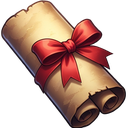
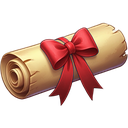
fix(circle-heroes): 고급소환권 아이콘을 일반과 동일 두루마리+리본색만 빨강으로, 초월 별을 빨강으로
- 고급소환권: 별도 두루마리 아트 대신 일반소환권 원본 이미지를 그대로 쓰고
  파란 리본만 빨간색으로 색상 치환(HSV 색상 회전, 하이라이트/음영 유지)
- 초월(보라) 별: 어두운 초상화 위에서 잘 안 보인다는 피드백에 따라 밝은
  빨강 그라데이션 + 검은 외곽 글로우로 교체(클래스명 star-purple은 "초월
  별" 의미로 유지, 리네임은 범위 밖)

diff --git a/circle-heroes/play/assets/index-B40_DLEJ.css b/circle-heroes/play/assets/index-B40_DLEJ.css
@@ -1,0 +1,1 @@
+:root{--bg: #f5ead6;--panel: #ecdab3;--panel2: #e2c48f;--line: #c7a468;--ink: #3b2a16;--ink2: #6e5430;--ink3: #9c8258;--amber: #f5ac3d;--amber-dark: #d88a1f;--red: #e8384a}#ui{position:fixed;top:0;right:0;bottom:0;left:0;display:flex;flex-direction:column;pointer-events:none;font-family:-apple-system,BlinkMacSystemFont,Apple SD Gothic Neo,Malgun Gothic,Noto Sans KR,sans-serif;color:var(--ink2);user-select:none;-webkit-user-select:none}#ui *{box-sizing:border-box}#ui button{font-family:inherit}#topbar-bg{position:absolute;inset:0 0 auto 0;height:calc(max(10px,env(safe-area-inset-top)) + 52px);background:var(--bg);z-index:4}#ui.on-battle #topbar-bg{background:none}#topbar{position:relative;z-index:5;display:flex;justify-content:space-between;align-items:flex-start;gap:8px;padding:max(10px,env(safe-area-inset-top)) 8px 6px}#hud{display:flex;flex-wrap:wrap;gap:2px;min-width:0;pointer-events:auto}.hud-chip{display:flex;align-items:center;gap:2px;background:#ecdab3cc;border:1px solid var(--line);border-radius:999px;padding:1px 6px 1px 3px;font-size:10px;color:#4a3418;font-variant-numeric:tabular-nums;white-space:nowrap}.hud-icon{width:12px;height:12px;object-fit:contain;flex:none}.hud-power{color:#a8650f}#corner{display:flex;flex-direction:row;flex:none;gap:8px;align-items:flex-start;pointer-events:auto}.corner-btn{width:44px;height:44px;border-radius:12px;background:#ecdab3dd;border:1px solid var(--line);display:flex;flex-direction:column;align-items:center;justify-content:center;gap:1px;font-size:9px;color:var(--ink2);position:relative;cursor:pointer}.corner-btn .ci{width:22px;height:22px;object-fit:contain}.corner-btn .ce{font-size:19px;line-height:1}.corner-btn .badge{position:absolute;top:-3px;right:-3px;width:10px;height:10px;border-radius:50%;background:var(--red);border:2px solid var(--bg)}.corner-btn.fold{width:26px;height:44px;font-size:12px;color:var(--ink3)}#corner.folded .corner-btn:not(.fold){display:none}.summon-single-btn{position:relative;display:flex;align-items:center;justify-content:center;gap:5px}.summon-free-dot{width:8px;height:8px;border-radius:50%;background:var(--red);flex:none}.tab{position:relative}.tab .badge{position:absolute;top:2px;right:18px;width:8px;height:8px;border-radius:50%;background:var(--red);border:2px solid var(--panel)}#screens{flex:1;position:relative;overflow:hidden}.screen{position:absolute;top:0;right:0;bottom:0;left:0;background:var(--bg);overflow-y:auto;padding:8px 14px 10px;pointer-events:auto;display:none}.screen.on{display:block}.screen h2{font-size:17px;color:var(--ink);margin:6px 0 3px}.screen .desc{font-size:12.5px;color:var(--ink3);margin:0 0 8px}#screen-battle{background:none;pointer-events:none}#subbar{display:flex;gap:6px;padding:8px 10px;background:#ecdab3f2;border-top:1px solid var(--line);justify-content:center;pointer-events:auto;overflow-x:auto}.sub-chip{font-size:12px;padding:6px 14px;border-radius:9px;background:var(--panel2);color:#8a7454;border:none;white-space:nowrap;cursor:pointer}.sub-chip.on{background:var(--amber);color:#10131c;font-weight:700}#tabbar{display:flex;align-items:flex-end;background:var(--panel);border-top:1px solid var(--line);padding:6px 6px calc(10px + env(safe-area-inset-bottom));gap:4px;pointer-events:auto}.tab{flex:1;display:flex;flex-direction:column;align-items:center;gap:3px;font-size:11px;color:#8a7454;padding:7px 0 3px;border-radius:9px;background:none;border:none;cursor:pointer}.tab .ti{width:32px;height:32px;object-fit:contain}.tab.on{background:var(--panel2);color:var(--amber)}.tab.center{flex:1.25;background:linear-gradient(180deg,var(--amber),var(--amber-dark));color:#10131c;font-weight:700;border-radius:14px;padding:11px 0 9px;margin-top:-18px;box-shadow:0 4px 12px #f5ac3d59}.tab.center .ti{width:28px;height:28px}#modal-root{position:absolute;top:0;right:0;bottom:0;left:0;display:none;align-items:center;justify-content:center;background:#060a14b8;pointer-events:auto;z-index:50;padding:24px 24px calc(86px + env(safe-area-inset-bottom)) 24px}#modal-root.on{display:flex}.modal{background:var(--panel);border:1px solid var(--line);border-radius:14px;padding:14px 16px;max-width:340px;width:100%;max-height:90vh;overflow-y:auto}.modal h3{margin:0 0 8px;font-size:16px;color:var(--ink)}.modal h4{margin:8px 0 6px;font-size:12.5px;color:var(--ink3)}.modal p{margin:0 0 14px;font-size:13px;color:var(--ink2)}.modal .row{display:flex;flex-wrap:wrap;gap:8px;justify-content:flex-end}.modal .row .btn{flex:1 1 auto}.modal .row .btn-cta{flex:1 1 100%}.btn{border:none;border-radius:9px;padding:9px 18px;font-size:13px;cursor:pointer;background:var(--panel2);color:var(--ink2);white-space:nowrap;flex-shrink:0;font-variant-numeric:tabular-nums}.btn.primary{background:none;color:#10131c;font-weight:700;border-style:solid;border-color:transparent;border-width:0 20px;border-image-source:url(btn-primary-bg.png);border-image-slice:0 130 fill;border-image-width:0 20px;border-image-repeat:stretch}.btn.danger{background:none;color:#fff;font-weight:700;border-style:solid;border-color:transparent;border-width:0 20px;border-image-source:url(btn-danger-bg.png);border-image-slice:0 130 fill;border-image-width:0 20px;border-image-repeat:stretch}.btn:disabled{opacity:.45;cursor:default}.backup-box{margin:4px 0 16px}.backup-box h4{margin:0 0 6px;font-size:13px;color:var(--ink)}.backup-box .btn{width:100%;margin-bottom:8px}.backup-box .row{justify-content:stretch}.code-box{margin:4px 0 16px}.code-box h4{margin:0 0 6px;font-size:13px;color:var(--ink)}.code-title{display:flex;align-items:center;gap:6px}.code-title-icon{width:16px;height:16px;object-fit:contain}.code-box .row{justify-content:stretch}.mail-box{margin:4px 0}.mail-bulk-btn{width:100%;margin-bottom:10px}.mail-row{border:1px solid var(--line);border-radius:10px;background:var(--panel2);margin-bottom:8px;overflow:hidden}.mail-row.read{opacity:.55}.mail-row-head{display:flex;align-items:center;gap:8px;padding:10px 12px;cursor:pointer}.mail-kind{width:20px;height:20px;object-fit:contain;flex:none}.mail-title{flex:1;font-size:13px;font-weight:700;color:var(--ink)}.mail-row.read .mail-title{color:var(--ink3);font-weight:600}.mail-dot{width:7px;height:7px;border-radius:50%;background:var(--red);flex:none}.mail-expand{display:none;padding:0 12px 12px;border-top:1px solid var(--line)}.mail-row.open .mail-expand{display:block;padding-top:10px}.mail-body{margin:0 0 10px;font-size:12.5px;color:var(--ink2);white-space:pre-line;line-height:1.5}.mail-reward-row{display:flex;gap:8px;margin-bottom:10px}.mail-reward-chip{display:flex;align-items:center;gap:4px;background:var(--panel);border:1px solid var(--line);border-radius:8px;padding:4px 8px;font-size:12px;color:var(--ink);font-variant-numeric:tabular-nums}.mail-reward-chip img{width:16px;height:16px;object-fit:contain}.mail-claimed{font-size:12px;color:var(--ink3);margin-bottom:4px}.mail-expand .btn{width:100%}.mail-expand .btn.primary{margin-bottom:8px}.muted{margin:0 0 10px;font-size:12px;color:var(--ink2);opacity:.8}.code-input{flex:1;min-width:0;border:1px solid var(--line);border-radius:9px;background:var(--panel2);color:var(--ink);padding:8px 10px;font-size:13px;letter-spacing:1px;text-transform:uppercase}#toast{position:absolute;left:50%;bottom:132px;transform:translate(-50%);background:#10131cee;border:1px solid var(--line);color:var(--ink2);font-size:12.5px;border-radius:999px;padding:8px 18px;opacity:0;transition:opacity .25s;pointer-events:none;z-index:60;white-space:nowrap}#toast.on{opacity:1}.power-row{display:flex;align-items:center;justify-content:space-between;gap:8px;margin-bottom:2px}.power-row h2{margin:0}.power-chip{flex:none;display:flex;align-items:center;gap:4px;font-size:12.5px;font-weight:700;color:var(--amber);background:var(--panel2);border:1px solid var(--line);border-radius:999px;padding:4px 10px;white-space:nowrap;font-variant-numeric:tabular-nums}.power-chip img{width:13px;height:13px;object-fit:contain;flex:none}.synergy-line{font-size:11.5px;color:var(--amber);background:#f5ac3d1a;border:1px solid #f5ac3d40;border-radius:8px;padding:6px 10px;margin-bottom:12px;text-align:center}.hero-grid{display:grid;grid-template-columns:repeat(5,1fr);gap:8px}.hero-card{position:relative;overflow:hidden;background:var(--grade-fill, var(--panel2));border:3px solid var(--line);border-radius:10px;aspect-ratio:3 / 4;cursor:pointer;display:flex;flex-direction:column;align-items:center;justify-content:center;gap:1px;padding:2px 0;text-align:center}.hero-card .face{position:relative;z-index:1;width:52px;height:52px;border-radius:8px;border:2px solid #10131c;flex:none}.hero-card .face.equip-face{display:flex;align-items:center;justify-content:center;font-size:26px;background:#00000040}.hero-card .hc-name{position:relative;z-index:1;flex:none;align-self:stretch;height:15px;font-size:7.5px;line-height:1.05;font-weight:600;background:#10131cd9;color:#fff;white-space:normal;word-break:break-all;display:-webkit-box;-webkit-line-clamp:2;-webkit-box-orient:vertical;overflow:hidden;text-overflow:ellipsis;max-width:100%;padding:0 4px}.hc-dupe-count{color:#fff;font-weight:700}.hero-card .hc-sub{position:relative;z-index:1;flex:none;font-size:8.5px;letter-spacing:.5px;color:#ffd34d}.hero-card .face .hc-sub{position:absolute;z-index:2;left:50%;bottom:2px;transform:translate(-50%);font-size:8px;letter-spacing:.5px;color:#ffd34d;text-shadow:0 1px 3px rgba(0,0,0,.85),0 0 2px rgba(0,0,0,.6)}.hc-badge{position:absolute;z-index:2;font-size:9px;font-weight:700;line-height:1;border-radius:999px;padding:3px 5px;background:#10131cdd;color:var(--ink);font-variant-numeric:tabular-nums}img.hc-badge{padding:2px;width:16px;height:16px;object-fit:contain;background:#10131cee}.hc-badge-tl{top:4px;left:4px}.hero-card .hc-badge-tr{top:4px;right:4px;background:var(--amber);color:#10131c}.hero-card .hc-badge-br{bottom:4px;right:4px}.hero-card .hc-badge-bl{bottom:4px;left:4px}.hero-card.in-party,.hero-card.selected{border-color:var(--amber)}.face-corner-badge{position:absolute;z-index:2;top:0;height:11px;box-sizing:border-box;display:flex;align-items:center;justify-content:center;font-size:9px;font-weight:700;line-height:1;padding:0 2px;background:#10131cf0;color:var(--ink);font-variant-numeric:tabular-nums}img.face-corner-badge{padding:1.5px;width:16px;object-fit:contain}.face-corner-badge.fc-tl{left:0;border-radius:8px 5px 5px}.face-corner-badge.fc-tr{right:0;border-radius:5px 8px 5px 5px}.face-corner-badge.badge-level{background:var(--amber);color:#10131c;font-size:6px}.hero-card.locked{cursor:default}.hero-card.grade-shimmer-unknown:before,.hero-card.grade-shimmer-ur:before{display:none}.hero-card.grade-shimmer-unknown,.hero-card.grade-shimmer-ur{border-color:transparent;background-origin:border-box}.hero-card.grade-shimmer-unknown{background-image:var(--grade-fill),linear-gradient(90deg,#ff5050,#ffaa3c,#e6e646,#46dc82,#46a0ff,#b45aff,#ff5050,#ffaa3c,#e6e646,#46dc82,#46a0ff,#b45aff);background-clip:padding-box,border-box;background-size:100% 100%,300% 100%;animation:rainbowBorderSweepCard 3.4s linear infinite}@keyframes rainbowBorderSweepCard{0%{background-position:0 0,0% 0}to{background-position:0 0,-200% 0}}@media(prefers-reduced-motion:reduce){.hero-card.grade-shimmer-unknown{animation:none;background-position:0 0,0% 0}}.hero-card.grade-shimmer-ur{background-image:var(--grade-fill),linear-gradient(115deg,#cfd6ea,#fff,#cfd6ea,#fff,#cfd6ea,#fff);background-clip:padding-box,border-box;background-size:100% 100%,300% 100%;animation:urBorderSweepCard 2.6s linear infinite}@keyframes urBorderSweepCard{0%{background-position:0 0,0% 0}to{background-position:0 0,-300% 0}}@media(prefers-reduced-motion:reduce){.hero-card.grade-shimmer-ur{animation:none;background-position:0 0,0% 0}}.grade-shimmer-unknown{position:relative}.grade-shimmer-unknown:before{content:"";position:absolute;top:0;right:0;bottom:0;left:0;border-radius:inherit;padding:3px;background:linear-gradient(90deg,#ff5050,#ffaa3c,#e6e646,#46dc82,#46a0ff,#b45aff,#ff5050,#ffaa3c,#e6e646,#46dc82,#46a0ff,#b45aff);background-size:300% 100%;-webkit-mask:linear-gradient(#000 0 0) content-box,linear-gradient(#000 0 0);-webkit-mask-composite:xor;mask-composite:exclude;animation:rainbowBorderSweep 3.4s linear infinite;pointer-events:none;z-index:3}@media(prefers-reduced-motion:reduce){.grade-shimmer-unknown:before{animation:none;box-shadow:0 0 8px 2px #b45aff99}}.grade-shimmer-ur{position:relative}.grade-shimmer-ur:before{content:"";position:absolute;top:0;right:0;bottom:0;left:0;border-radius:inherit;padding:3px;background:linear-gradient(115deg,#fff0 15%,#fffffff2,#fff0 85%),linear-gradient(180deg,#cfd6ea,#fff);background-size:300% 300%,100% 100%;-webkit-mask:linear-gradient(#000 0 0) content-box,linear-gradient(#000 0 0);-webkit-mask-composite:xor;mask-composite:exclude;animation:urBorderSweep 2.6s linear infinite;pointer-events:none;z-index:3}@keyframes urBorderSweep{0%{background-position:0% 50%,0 0}to{background-position:300% 50%,0 0}}@media(prefers-reduced-motion:reduce){.grade-shimmer-ur:before{animation:none;background-position:100% 50%,0 0}}.hero-card.locked .face{filter:grayscale(1) brightness(.75)}.hero-card .hc-lock{position:absolute;z-index:2;bottom:4px;left:4px;font-size:12px;background:#10131cdd;border-radius:999px;padding:3px 6px}.hero-card .hc-lock img{width:12px;height:12px;display:block;object-fit:contain}.codex-divider{display:flex;align-items:center;gap:8px;margin:16px 0 8px;padding-bottom:4px;border-bottom:1px solid var(--line)}.codex-divider:first-of-type{margin-top:4px}.codex-grade{font-size:14px;font-weight:800}.codex-count{font-size:11.5px;color:var(--ink3);font-variant-numeric:tabular-nums}.grade-N{color:#7d9ab5}.grade-R{color:#6f9fe8}.grade-SR{color:#b88ae8}.grade-SSR{color:#ffd980}.grade-UR{color:#eef1f8}.grade-Unknown{color:#8a8f9c}.banner-row{display:flex;gap:8px;margin-bottom:10px}.banner-card{flex:1;position:relative;overflow:hidden;background:var(--panel2);border:3px solid var(--line);border-radius:10px;aspect-ratio:3 / 4;cursor:pointer}.banner-card .face{position:absolute;top:3px;right:3px;bottom:3px;left:3px;z-index:1;border-radius:7px}.banner-card-standard{background:linear-gradient(150deg,#6e2a12,#123a55 28%,#1f5535,#6b551a,#3a1f5c);border-color:#ffd34d;display:flex;align-items:center;justify-content:center}.banner-card-standard-icon{font-size:32px;filter:drop-shadow(0 0 6px rgba(255,211,77,.6))}.banner-card-name{position:absolute;z-index:2;left:0;right:0;bottom:0;padding:4px 4px 5px;font-size:10px;font-weight:700;color:var(--ink);text-align:center;background:linear-gradient(to top,rgba(10,13,22,.92),transparent);white-space:nowrap;overflow:hidden;text-overflow:ellipsis}.banner-card-monthly{position:absolute;z-index:2;top:4px;left:4px;padding:2px 6px;font-size:8.5px;font-weight:800;color:#10131c;background:#ffd34d;border-radius:999px}.banner-card.on{box-shadow:0 0 0 2px #6fe8e0}.banner-card-check{position:absolute;z-index:2;top:4px;right:4px;width:18px;height:18px;border-radius:50%;background:#2fae5c;color:#fff;font-size:11px;font-weight:800;display:flex;align-items:center;justify-content:center}.banner-info{margin-bottom:8px;text-align:center}.banner-info-flavor{font-size:12px;color:var(--ink2);margin-bottom:2px}.banner-info-pity{font-size:11.5px;color:var(--ink3)}.banner-info-pity b{color:var(--amber)}.summon-box{background:radial-gradient(circle at 50% 30%,#fbe8c0,#ecdab3 75%);border:1px solid var(--line);border-radius:14px;padding:14px 16px;text-align:center;margin-bottom:10px}.summon-btn-row{display:flex;gap:10px;justify-content:center;flex-wrap:wrap}.summon-btn-row .btn{flex:1 1 auto;min-width:128px}.orb{position:relative;width:80px;height:112px;margin:8px auto 12px}.orb-card{position:absolute;top:0;right:0;bottom:0;left:0;border-radius:11px}.orb-card-back2{background:radial-gradient(circle at 50% 35%,#1c2440,#05070f 80%);border:2px solid rgba(245,172,61,.35);transform:translate(7px,6px) rotate(7deg);opacity:.55}.orb-card-back1{background:radial-gradient(circle at 50% 35%,#1c2440,#05070f 80%);border:2px solid rgba(245,172,61,.5);transform:translate(3px,3px) rotate(3deg);opacity:.8}.orb-card-main{background:radial-gradient(circle at 50% 35%,#1c2440,#05070f 82%);border:2px solid #f5ac3d;box-shadow:0 0 22px #f5ac3d80,inset 0 0 16px #f5ac3d24;display:flex;align-items:center;justify-content:center;overflow:hidden;animation:cardFloat 2.4s ease-in-out infinite}.orb-card-main:before{content:"";position:absolute;top:5px;right:5px;bottom:5px;left:5px;border:1px solid rgba(245,172,61,.32);border-radius:8px;pointer-events:none}.orb-card-ring{position:absolute;width:60%;aspect-ratio:1;border-radius:50%;border:2px solid rgba(245,172,61,.55);box-shadow:0 0 14px #f5ac3d59}.orb-card-ring:before{content:"";position:absolute;top:-7px;right:-7px;bottom:-7px;left:-7px;border-radius:50%;border:1px dashed rgba(245,172,61,.3)}.orb-card-mark{position:relative;font-size:34px;font-weight:800;color:#f5d9a8;text-shadow:0 0 14px rgba(245,172,61,.85)}.orb-card-shine{position:absolute;top:0;left:-70%;width:45%;height:100%;background:linear-gradient(100deg,transparent,rgba(255,255,255,.55),transparent);transform:skew(-18deg);animation:cardShine 2.6s ease-in-out infinite}@keyframes cardFloat{0%,to{transform:translateY(0)}50%{transform:translateY(-5px)}}@keyframes cardShine{0%{left:-70%}55%,to{left:140%}}.orb-spark{position:absolute;color:#d8fffb;font-size:11px;text-shadow:0 0 6px rgba(216,255,251,.9);animation:orbSparkle 1.8s ease-in-out infinite}.orb-spark.s0{top:-4%;left:4%;animation-delay:0s}.orb-spark.s1{top:6%;right:-8%;animation-delay:.4s}.orb-spark.s2{bottom:4%;left:-10%;animation-delay:.8s}.orb-spark.s3{bottom:-4%;right:2%;animation-delay:1.2s}@keyframes orbSparkle{0%,to{opacity:.15;transform:scale(.7)}50%{opacity:1;transform:scale(1.15)}}@media(prefers-reduced-motion:reduce){.orb-card-main,.orb-card-shine,.orb-spark{animation:none}}.pity{font-size:11.5px;color:var(--ink3);margin:10px 0 0}.pity b{color:var(--amber)}.summon-title-row{display:flex;align-items:center;justify-content:space-between}.summon-title-row h2{margin:0}.prob-btn{padding:5px 10px;font-size:11px;background:var(--panel2);color:var(--ink3);border:1px solid var(--line)}.prob-modal{text-align:left}.prob-table{width:100%;border-collapse:collapse;margin-bottom:14px}.prob-table th,.prob-table td{padding:6px 8px;border-bottom:1px solid var(--line);font-size:12.5px;text-align:left}.prob-table th{color:var(--ink3);font-weight:600;font-size:11px}.prob-table td.gd{font-weight:800}.prob-note-title{font-size:12px;font-weight:700;color:var(--ink);margin:12px 0 4px}.prob-note-title:first-of-type{margin-top:0}.prob-note{font-size:11.5px;color:var(--ink3);line-height:1.5;margin-bottom:3px}.list-card{background:var(--panel2);border:1px solid var(--line);border-radius:10px;padding:7px 12px;margin-bottom:4px;display:flex;align-items:center;gap:12px;font-size:13px}.list-card .grow{flex:1}.list-card .li-icon{width:28px;height:28px;object-fit:contain;flex:none}.ticket-icon{width:14px;height:14px;object-fit:contain;vertical-align:-2px;margin:0 1px}.arena-opp-list{margin:8px 0}.arena-select .btn:not(.primary){width:100%;margin-top:4px}.list-card .t{color:var(--ink);font-size:13.5px}.list-card .s{color:var(--ink3);font-size:11.5px;margin-top:2px}.party-row{display:grid;grid-template-columns:repeat(5,1fr);gap:8px;margin-bottom:18px}.hero-card.hero-card-empty{background:var(--panel2);border:1px dashed var(--line)}.hc-empty-plus{font-size:22px;color:var(--ink3)}.ascend-panel{display:flex;align-items:center;gap:10px;background:var(--panel2);border:1px solid var(--line);border-radius:12px;padding:14px;margin-bottom:12px}.ascend-slot{position:relative;overflow:hidden;flex:none;width:88px;aspect-ratio:3 / 4;background:var(--panel);border:1px dashed var(--line);border-radius:10px;display:flex;flex-direction:column;align-items:center;justify-content:center;gap:2px;cursor:pointer;text-align:center;padding:4px}.ascend-target{cursor:pointer}.ascend-slot.filled{border-style:solid;border-width:3px}.ascend-slot .face{position:relative;z-index:1;width:56px;height:56px;border-radius:12px;border:2px solid #10131c}.ascend-slot .as-nm,.ascend-slot .as-stars{position:relative;z-index:1}.ascend-slot .as-nm{font-size:10px;color:var(--ink);white-space:nowrap;overflow:hidden;text-overflow:ellipsis;max-width:100%}.ascend-slot .as-stars{font-size:9px;color:#ffd34d}.ascend-arrow{flex:none;font-size:20px;color:var(--ink3)}.ascend-mats{flex:1;display:flex;flex-wrap:wrap;gap:6px;align-items:center}.ascend-mat{width:46px;aspect-ratio:1;cursor:default}.ascend-mat .face{width:30px;height:30px}.as-label{font-size:11px;color:var(--ink3);width:100%}.ascend-btn{width:100%;margin-bottom:16px}.ascend-preview{background:var(--panel2);border:1px solid var(--line);border-radius:12px;padding:10px 14px;margin-bottom:12px}.ap-title{font-size:12.5px;color:#ffd34d;font-weight:700;margin-bottom:6px}.ap-row{display:flex;gap:14px;flex-wrap:wrap}.ap-stat{display:flex;flex-direction:column;align-items:flex-start;gap:2px;font-size:11px}.ap-lbl{color:var(--ink3)}.ap-vals{display:flex;align-items:center;gap:4px}.ap-now{color:var(--ink3);text-decoration:line-through;font-variant-numeric:tabular-nums}.ap-arrow{color:var(--ink3);font-size:10px}.ap-next{color:var(--ink);font-weight:700;font-variant-numeric:tabular-nums}.equip-slot-grid{display:grid;grid-template-columns:repeat(3,1fr);gap:6px}.equip-slot-box{aspect-ratio:1 / 1;background:var(--panel);border:1px dashed var(--line);border-radius:10px;display:flex;flex-direction:column;align-items:center;justify-content:center;gap:2px;cursor:pointer;text-align:center;padding:4px}.equip-slot-box.filled{border-style:solid;border-width:3px}.equip-slot-box .esb-icon{font-size:22px}.equip-slot-box .esb-plus{font-size:18px;color:var(--ink3)}.equip-slot-box .esb-grade{font-size:12px;font-weight:800}.equip-slot-box .esb-label{font-size:10px;color:var(--ink3)}.equip-modal{text-align:left}.equip-modal-title{font-size:12px;font-weight:700;color:var(--ink3);margin:12px 0 6px}.equip-modal-title:first-child{margin-top:0}.equip-modal-row{display:flex;align-items:center;flex-wrap:wrap;gap:8px 10px;background:var(--panel2);border:1px solid var(--line);border-radius:10px;padding:9px 10px;margin-bottom:6px}.equip-modal-grade{font-size:13px;flex:none;min-width:34px;white-space:nowrap}.equip-modal-bonus{flex:1 1 auto;font-size:12.5px;color:var(--ink);white-space:nowrap}.equip-modal-row .btn{flex:none}.detail-head{position:relative;overflow:hidden;display:flex;gap:12px;align-items:center;margin-bottom:8px;padding:8px 10px;border-radius:12px}.detail-head .face{position:relative;z-index:1;width:76px;height:76px;border-radius:14px;border:2px solid #10131c;flex:none}.detail-head .dh-name,.detail-head .gd,.detail-head .dh-stars,.detail-head .dh-lv{position:relative;z-index:1}.dh-name{font-size:16px;color:var(--ink);font-weight:700}.dh-lv{font-size:12px;color:var(--amber);margin-top:2px}.detail-head .face.has-illustration{cursor:pointer}.illust-hint{position:absolute;z-index:2;bottom:2px;right:2px;width:16px;height:16px;object-fit:contain;background:#10131cdd;border-radius:999px;padding:2px}.illust-overlay{position:fixed;top:0;right:0;bottom:0;left:0;z-index:200;background:#05070eeb;display:flex;align-items:center;justify-content:center;padding:24px}.illust-img{max-width:100%;max-height:100%;border-radius:14px;box-shadow:0 12px 40px #0009}.stat-box{display:grid;grid-template-columns:1fr 1fr;column-gap:14px;background:var(--panel);border-radius:9px;padding:8px 12px;margin-bottom:8px}.stat-row{display:flex;justify-content:space-between;font-size:12.5px;padding:2.5px 0}.stat-row.stat-row-wide{grid-column:1 / -1}.stat-row .sl{color:var(--ink3);white-space:nowrap;flex-shrink:0}.stat-row .sv{color:var(--ink);font-variant-numeric:tabular-nums;white-space:nowrap;flex-shrink:0;margin-left:8px}.skill-box{margin-bottom:8px}.skill-box .sk{display:flex;align-items:flex-start;gap:5px;font-size:11.5px;color:var(--ink2);padding:2px 0;line-height:1.3}.skill-box .sk img{width:14px;height:14px;object-fit:contain;flex:none;margin-top:1px}.matchup-box{display:flex;gap:14px;background:var(--panel);border-radius:9px;padding:6px 12px;margin-bottom:8px}.mu-row{display:flex;align-items:center;gap:5px;font-size:12px}.mu-arrow{font-size:10px}.mu-strong .mu-arrow{color:#6fd98a}.mu-weak .mu-arrow{color:#e8683a}.mu-icon{width:16px;height:16px}.mu-txt{color:var(--ink2)}.faction-tabs{display:flex;gap:6px;margin-bottom:12px}.f-chip{display:inline-flex;align-items:center;justify-content:center;flex:1 1 0;padding:6px 0;border-radius:10px;background:var(--panel2);color:var(--ink2);border:1.5px solid var(--line);cursor:pointer}.fc-icon{width:26px;height:26px;object-fit:contain}.fc-icon.fc-icon-emoji{font-size:20px;line-height:1}.f-chip.on{background:var(--amber);color:#10131c;font-weight:700;border-color:var(--amber)}.dh-stars{font-size:12px;color:#ffd34d;letter-spacing:2px;margin-top:2px}.asc-row{display:flex;align-items:center;justify-content:space-between;gap:10px;background:var(--panel);border-radius:9px;padding:9px 12px;margin-bottom:10px;font-size:12px;color:var(--ink2)}#summon-fx{position:absolute;top:0;right:0;bottom:0;left:0;z-index:70;background:radial-gradient(ellipse at 50% 40%,#fdf0d0,#f5ead6 75%);display:flex;flex-direction:column;align-items:center;justify-content:center;pointer-events:auto;overflow:hidden}.sfx-spark{position:absolute;z-index:5;color:#fff3d6;font-size:13px;text-shadow:0 0 6px rgba(255,211,77,.9),0 0 2px rgba(20,12,4,.6);pointer-events:none;animation:sfxSparkPop 1s ease-out forwards}@keyframes sfxSparkPop{0%{opacity:0;transform:scale(.4)}30%{opacity:1;transform:scale(1.2)}to{opacity:0;transform:scale(.8)}}@media(prefers-reduced-motion:reduce){.sfx-spark{animation:none;opacity:.8}}#summon-fx.flash-sr:before{content:"";position:absolute;top:0;right:0;bottom:0;left:0;background:radial-gradient(circle,rgba(200,140,255,.55),transparent 70%);animation:srFlash .5s ease-out forwards;pointer-events:none}@keyframes srFlash{0%{opacity:1}to{opacity:0}}.sfx-orb{position:relative;width:110px;height:154px;animation:orbBurst .35s ease-in 1.8s forwards}.sfx-orb .orb-card-main.sfx-orb-main{animation:cardCharge .9s ease-in-out 2}@keyframes cardCharge{0%,to{transform:scale(1);box-shadow:0 0 22px #6fe8e08c,inset 0 0 16px #6fe8e01f}50%{transform:scale(1.1);box-shadow:0 0 46px #6fe8e0e6,inset 0 0 18px #6fe8e040}}@keyframes orbBurst{to{transform:scale(2.6);opacity:0}}.sfx-grid{display:grid;grid-template-columns:repeat(2,1fr);gap:12px;padding:10px}.sfx-grid.ten{gap:8px}.sfx-grid.rows{display:flex;flex-direction:column;gap:8px;padding:10px}.sfx-row{display:flex;justify-content:center;gap:8px}.sfx-card{width:60px;aspect-ratio:3 / 4;perspective:700px;animation:cardIn .3s ease-out backwards}@keyframes cardIn{0%{transform:translateY(24px);opacity:0}}.sfx-card .inner{position:relative;width:100%;height:100%;transform-style:preserve-3d;transition:transform .45s cubic-bezier(.3,1.2,.4,1)}.sfx-card.fast .inner{transition-duration:.22s}.sfx-card.flipped .inner{transform:rotateY(180deg)}.sfx-card .back,.sfx-card .front{position:absolute;top:0;right:0;bottom:0;left:0;backface-visibility:hidden;-webkit-backface-visibility:hidden;border-radius:12px;display:flex;flex-direction:column;align-items:center;justify-content:center;gap:5px}.sfx-card .back{background:radial-gradient(circle at 50% 36%,#332a5c,#1a1430 55%,#0b0818);border:3px solid #f5ac3d;box-shadow:0 0 18px #f5ac3d73,inset 0 0 22px #f5ac3d26;color:#f5d9a8;position:relative;overflow:hidden}.sfx-card .back:before{content:"";position:absolute;top:0;right:0;bottom:0;left:0;background-image:repeating-radial-gradient(circle at 50% 38%,transparent 0,transparent 9px,rgba(245,172,61,.1) 9px,rgba(245,172,61,.1) 10px)}.sfx-card .back:after{content:"";position:absolute;top:6px;right:6px;bottom:6px;left:6px;border:1px dashed rgba(245,172,61,.4);border-radius:9px;background:radial-gradient(circle 2.5px at 5px 5px,#f5ac3d 98%,transparent 100%),radial-gradient(circle 2.5px at calc(100% - 5px) 5px,#f5ac3d 98%,transparent 100%),radial-gradient(circle 2.5px at 5px calc(100% - 5px),#f5ac3d 98%,transparent 100%),radial-gradient(circle 2.5px at calc(100% - 5px) calc(100% - 5px),#f5ac3d 98%,transparent 100%);background-repeat:no-repeat;pointer-events:none}.back-ring{position:relative;width:62%;aspect-ratio:1;border-radius:50%;border:2px solid rgba(245,172,61,.65);box-shadow:0 0 18px #f5ac3d66}.back-ring:before{content:"";position:absolute;top:-8px;right:-8px;bottom:-8px;left:-8px;border-radius:50%;border:1px dashed rgba(245,172,61,.35)}.back-ring:after{content:"";position:absolute;top:16%;right:16%;bottom:16%;left:16%;border-radius:50%;border:1px solid rgba(245,172,61,.3)}.back-mark{position:relative;font-size:22px;font-weight:700;color:#f5d9a8;text-shadow:0 0 12px rgba(245,172,61,.85)}.sfx-card.tease .back{border-color:#ffd34d;animation:teasePulse .55s ease-in-out infinite}@keyframes teasePulse{0%,to{box-shadow:0 0 8px #ffd34d66}50%{box-shadow:0 0 26px #ffd34df2}}.sfx-card .front{transform:rotateY(180deg);background:var(--panel2);overflow:hidden;font-size:9px;gap:2px;color:var(--ink);text-align:center;padding:4px 3px 3px}.sfx-card .front>*{position:relative;z-index:1}.sfx-card .front .face{width:40px;height:40px;border-radius:9px;border:2px solid #10131c}.sfx-card .front{border:3px solid var(--line)}.sfx-card.grade-SR.flipped,.sfx-card.grade-SSR.flipped,.sfx-card.grade-UR.flipped{animation:srPop .4s ease-out .25s}@keyframes srPop{0%{transform:scale(1)}40%{transform:scale(1.12)}to{transform:scale(1)}}.sfx-card .front .newtag{position:absolute;top:-4px;left:50%;transform:translate(-50%);width:40px;height:20px;object-fit:contain;filter:drop-shadow(0 2px 3px rgba(0,0,0,.4))}.sfx-hint{margin-top:16px;font-size:11.5px;color:var(--ink3);min-height:1em}.sfx-hint.done{display:none}.sfx-flipall{margin-top:14px;min-width:160px}.sfx-footer{display:flex;flex-direction:column;align-items:center;gap:4px;margin-top:6px}.sfx-again{display:flex;gap:10px;margin-top:18px;flex-wrap:wrap;justify-content:center}.sfx-again .btn{min-width:140px}.sfx-new-popup{position:absolute;top:0;right:0;bottom:0;left:0;z-index:5;background:#f5ead6f2;display:flex;flex-direction:column;align-items:center;justify-content:center;gap:10px;padding:24px;text-align:center}.sfx-new-title{font-size:18px;font-weight:800;color:#ffd34d}.sfx-new-card{position:relative;overflow:hidden;width:150px;aspect-ratio:3 / 4;border-radius:14px;border:4px solid var(--line);background:var(--panel2);animation:srPop .4s ease-out}.sfx-new-card .face{position:absolute;top:9px;right:9px;bottom:9px;left:9px;border-radius:10px}.sfx-new-name{font-size:17px;font-weight:700;color:var(--ink)}.sfx-new-sub{font-size:12.5px;color:var(--ink3);margin-bottom:6px}.sfx-new-popup .btn{min-width:160px}#screen-summon.fx-active>*{visibility:hidden}@media(prefers-reduced-motion:reduce){.sfx-orb,.sfx-orb-ring,.sfx-orb-core,.sfx-card,.sfx-card .inner,.sfx-card.tease .back{animation:none!important;transition:none!important}}.mbar{height:5px;background:#10131c;border-radius:3px;margin:3px 0 2px;overflow:hidden}.mbar-fill{height:100%;background:linear-gradient(90deg,var(--amber),#ffd34d);border-radius:3px;transition:width .3s}.list-card.all-bonus{border-color:var(--amber)}.milestone-box{background:linear-gradient(180deg,#f5ac3d38,#f5ac3d14);border:2px solid var(--amber);border-radius:12px;padding:8px 12px;margin-bottom:10px;box-shadow:0 0 0 1px #f5ac3d26,0 2px 8px #d88a1f2e}.milestone-title{font-size:12.5px;font-weight:800;color:var(--amber-dark);margin-bottom:2px;display:flex;align-items:center;gap:4px}.milestone-title:before{content:"🏆";font-size:12px}.mission-list-label{font-size:11.5px;font-weight:700;color:var(--ink3);margin:2px 2px 4px}.milestone-bar{margin:4px 0 6px}.milestone-chests{display:flex;gap:6px}.milestone-chest{flex:1;display:flex;flex-direction:column;align-items:center;gap:2px;padding:4px 2px;border-radius:8px;border:1px dashed var(--line);background:var(--panel);cursor:default;font:inherit;color:inherit}.milestone-chest.ready{border-style:solid;border-color:var(--amber);cursor:pointer;background:#f5ac3d1f}.milestone-chest.claimed{border-style:solid;opacity:.55}.milestone-chest:disabled{cursor:default}.milestone-chest .mc-icon{font-size:16px}.milestone-chest .mc-pts{font-size:10px;color:var(--ink3);font-variant-numeric:tabular-nums}.milestone-chest .mc-reward{font-size:9px;color:var(--ink2);white-space:nowrap}.raid-select-banner{background:#f5ac3d26;border:1px solid var(--amber);border-radius:10px;padding:10px 12px;font-size:12px;color:var(--ink);line-height:1.5;margin-bottom:12px}.raid-dungeon-grid{display:grid;grid-template-columns:repeat(2,1fr);gap:10px}.raid-hut{--roof: #888;position:relative;border:none;border-radius:12px;background:#fff7e8ee;box-shadow:0 4px 10px #28190540;cursor:pointer;padding:0 0 8px;overflow:hidden}.raid-hut .hub-roof{height:14px;background:var(--roof);border-radius:12px 12px 0 0}.raid-hut .hub-body{display:flex;flex-direction:column;align-items:center;gap:2px;padding:8px 6px 0}.raid-hut .hub-label{font-size:12.5px;font-weight:700;color:#241a08}.raid-hut .hub-flavor{font-size:10px;color:#6b5530;text-align:center}.raid-hut.locked{filter:grayscale(1);opacity:.55;cursor:default}.raid-lock{position:absolute;top:6px;right:8px;font-size:14px}#splash{position:fixed;top:0;right:0;bottom:0;left:0;z-index:100;display:flex;flex-direction:column;align-items:center;justify-content:center;gap:10px;background:linear-gradient(180deg,#0a080480,#0a080414 26%,#0a080414 62%,#0a08048c),url(splash.png) center/cover no-repeat;cursor:pointer;font-family:-apple-system,BlinkMacSystemFont,Apple SD Gothic Neo,Malgun Gothic,Noto Sans KR,sans-serif}#splash.loading{cursor:default}#splash.loading #splash-tap{animation:none;opacity:.55}#splash-title{position:absolute;top:30%;left:50%;transform:translate(-50%,-50%);font-size:42px;font-weight:900;letter-spacing:.02em;color:#fff8e8;text-align:center;white-space:nowrap;text-shadow:0 2px 0 rgba(20,12,4,.95),0 3px 8px rgba(20,12,4,.9),0 0 4px rgba(20,12,4,.95),0 0 20px rgba(245,172,61,.65),0 0 32px rgba(20,12,4,.5);z-index:2}#splash-michael{max-width:min(94vw,520px);max-height:68vh;width:auto;height:auto;object-fit:contain;filter:drop-shadow(0 14px 22px rgba(20,12,4,.35));pointer-events:none}#splash-tap{position:absolute;bottom:max(140px,env(safe-area-inset-bottom) + 100px);font-size:13px;font-weight:700;color:#fff3d6;letter-spacing:.06em;text-shadow:0 1px 2px rgba(20,12,4,.9),0 0 8px rgba(20,12,4,.75);animation:splashBlink 1.4s ease-in-out infinite}@keyframes splashBlink{0%,to{opacity:1}50%{opacity:.15}}@media(prefers-reduced-motion:reduce){#splash-tap{animation:none}}.adventure-banner-list{display:flex;flex-direction:column;gap:10px}.adventure-banner{position:relative;overflow:hidden;border:none;border-radius:14px;height:92px;display:flex;align-items:center;gap:12px;padding:0 16px;cursor:pointer;text-align:left;box-shadow:0 6px 16px #00000059}.adventure-banner:before{content:"";position:absolute;top:0;right:0;bottom:0;left:0;background:var(--ab-img) center/cover no-repeat}.adventure-banner:after{content:"";position:absolute;top:0;right:0;bottom:0;left:0;background:linear-gradient(180deg,#0000000d,#0000008c)}.adventure-banner .ab-body{position:relative;z-index:1;flex:1;min-width:0}.adventure-banner .ab-label{font-size:16px;font-weight:800;color:#fff;text-shadow:0 1px 2px rgba(0,0,0,.95),0 0 6px rgba(0,0,0,.8)}.adventure-banner .ab-flavor{font-size:11.5px;color:#fff;margin-top:2px;text-shadow:0 1px 2px rgba(0,0,0,.95),0 0 5px rgba(0,0,0,.8)}.adventure-banner .ab-arrow{position:relative;z-index:1;flex:none;font-size:18px;color:#fffc}.adventure-banner.mode-raid{--ab-img: url(banner-raid.png)}.adventure-banner.mode-arena{--ab-img: url(banner-arena.png)}.adventure-banner.mode-tower{--ab-img: url(banner-tower.png)}.hud-chip.clickable{cursor:pointer}#screen-adventure.adventure-live{background:none;pointer-events:none;padding:0}#subbar.empty{display:none}.summon-title-row h2{flex:1;text-align:center}.summon-corner-right{display:flex;flex-direction:column;align-items:center;gap:4px}.summon-help-btn{width:26px;height:26px;padding:0;border-radius:50%;background:var(--panel2);color:var(--ink3);border:1px solid var(--line);font-size:12px;line-height:1}.pity-ring{--pct: 0;width:36px;height:36px;border-radius:50%;background:conic-gradient(var(--amber) calc(var(--pct) * 1%),rgba(255,255,255,.12) 0);display:flex;align-items:center;justify-content:center;position:relative}.pity-ring:before{content:"";position:absolute;top:3px;right:3px;bottom:3px;left:3px;border-radius:50%;background:var(--panel)}.pity-ring-text{position:relative;font-size:7.5px;font-weight:700;color:var(--ink);z-index:1}.summon-cat-row{gap:6px;margin-bottom:6px}.summon-cat-chip{flex:1;padding:9px 4px;border-radius:10px;background:var(--panel2);border:1px solid var(--line);color:var(--ink3);font-size:12.5px;font-weight:700;cursor:pointer}.summon-cat-chip.on{background:var(--amber);color:#10131c;border-color:var(--amber)}.summon-cat-desc{text-align:center;margin-bottom:10px}.pickup-select-row{display:flex;gap:10px;justify-content:center;margin-bottom:8px}.pickup-select-slot{position:relative;width:72px;aspect-ratio:3 / 4;border-radius:12px;border:2px solid var(--line);background:var(--panel2);cursor:pointer;overflow:hidden;display:flex;flex-direction:column;align-items:center;justify-content:flex-end;opacity:.6;transition:opacity .15s,transform .15s}.pickup-select-slot .face{position:absolute;top:0;right:0;bottom:0;left:0}.pickup-select-slot.on{opacity:1;transform:translateY(-3px);box-shadow:0 0 0 2px var(--amber),0 0 12px 2px #f5ac3d99}.pickup-select-up{position:absolute;top:4px;left:50%;transform:translate(-50%);background:var(--amber);color:#10131c;font-size:9px;font-weight:800;padding:1px 6px;border-radius:999px;z-index:1}.pickup-select-name{position:relative;z-index:1;width:100%;padding:3px 2px;background:#0a0d16b3;color:var(--ink);font-size:10px;font-weight:700;text-align:center;white-space:nowrap;overflow:hidden;text-overflow:ellipsis}.mat-count{background:var(--red)!important}.transcend-mats{justify-content:center}.star-purple{background:linear-gradient(115deg,#ff2d3d 15%,#ffe3d6,#ff2d3d 85%);background-size:300% 100%;-webkit-background-clip:text;background-clip:text;color:transparent!important;-webkit-text-fill-color:transparent;text-shadow:0 0 3px #000,0 0 8px rgba(255,40,55,.85);animation:starPurpleShine 2.2s linear infinite}@keyframes starPurpleShine{0%{background-position:0% 0}to{background-position:-200% 0}}@media(prefers-reduced-motion:reduce){.star-purple{animation:none;background-position:-100% 0}}

diff --git a/circle-heroes/src/ui/ui.css b/circle-heroes/src/ui/ui.css
@@ -1960,15 +1960,18 @@ img.face-corner-badge { padding: 1.5px; width: 16px; object-fit: contain; }
    동작하도록 색만 덮어쓰는 유틸 클래스.
    §2026-08-01 "노란 1~5단계와 동일하게, 색만 보라로 바꾸고 그라데이션 번쩍임 효과" — 기존엔
    단색 보라 + 발광 펄스였는데, UR 테두리(grade-shimmer-ur)와 같은 방식으로 그라데이션 자체가
-   글자 위를 흐르게(background-clip:text) 바꿔서 "번쩍임"을 색상 흐름으로 표현 */
+   글자 위를 흐르게(background-clip:text) 바꿔서 "번쩍임"을 색상 흐름으로 표현
+   §2026-08-01(2차) "보라색이 잘 안 보인다, 밝은빨강으로" — 클래스명(star-purple)·starState()의
+   purple 플래그는 "초월 별" 의미로 그대로 두고(리네임은 범위 밖) 실제 색상만 빨강 계열로 교체 */
 .star-purple {
-  background: linear-gradient(115deg, #7c3fd6 15%, #f0d9ff 50%, #7c3fd6 85%);
+  background: linear-gradient(115deg, #ff2d3d 15%, #ffe3d6 50%, #ff2d3d 85%);
   background-size: 300% 100%;
   -webkit-background-clip: text;
   background-clip: text;
   color: transparent !important;
   -webkit-text-fill-color: transparent;
-  text-shadow: 0 0 6px rgba(176, 96, 240, 0.55);
+  /* 어두운 초상화(수염 등) 위에 얹힐 때도 도드라지도록 글로우를 진하고 넓게 */
+  text-shadow: 0 0 3px #000, 0 0 8px rgba(255, 40, 55, 0.85);
   animation: starPurpleShine 2.2s linear infinite;
 }
 @keyframes starPurpleShine {

diff --git a/circle-heroes/play/index.html b/circle-heroes/play/index.html
@@ -8,8 +8,8 @@
       html, body { margin: 0; padding: 0; background: #f5ead6; height: 100%; overflow: hidden; }
       #app { width: 100%; height: 100%; }
     </style>
-    <script type="module" crossorigin src="./assets/index-BAoRQQhl.js"></script>
-    <link rel="stylesheet" crossorigin href="./assets/index-BIwuN_RY.css">
+    <script type="module" crossorigin src="./assets/index-DVKWKbTk.js"></script>
+    <link rel="stylesheet" crossorigin href="./assets/index-B40_DLEJ.css">
   </head>
   <body>
     <div id="app"></div>
